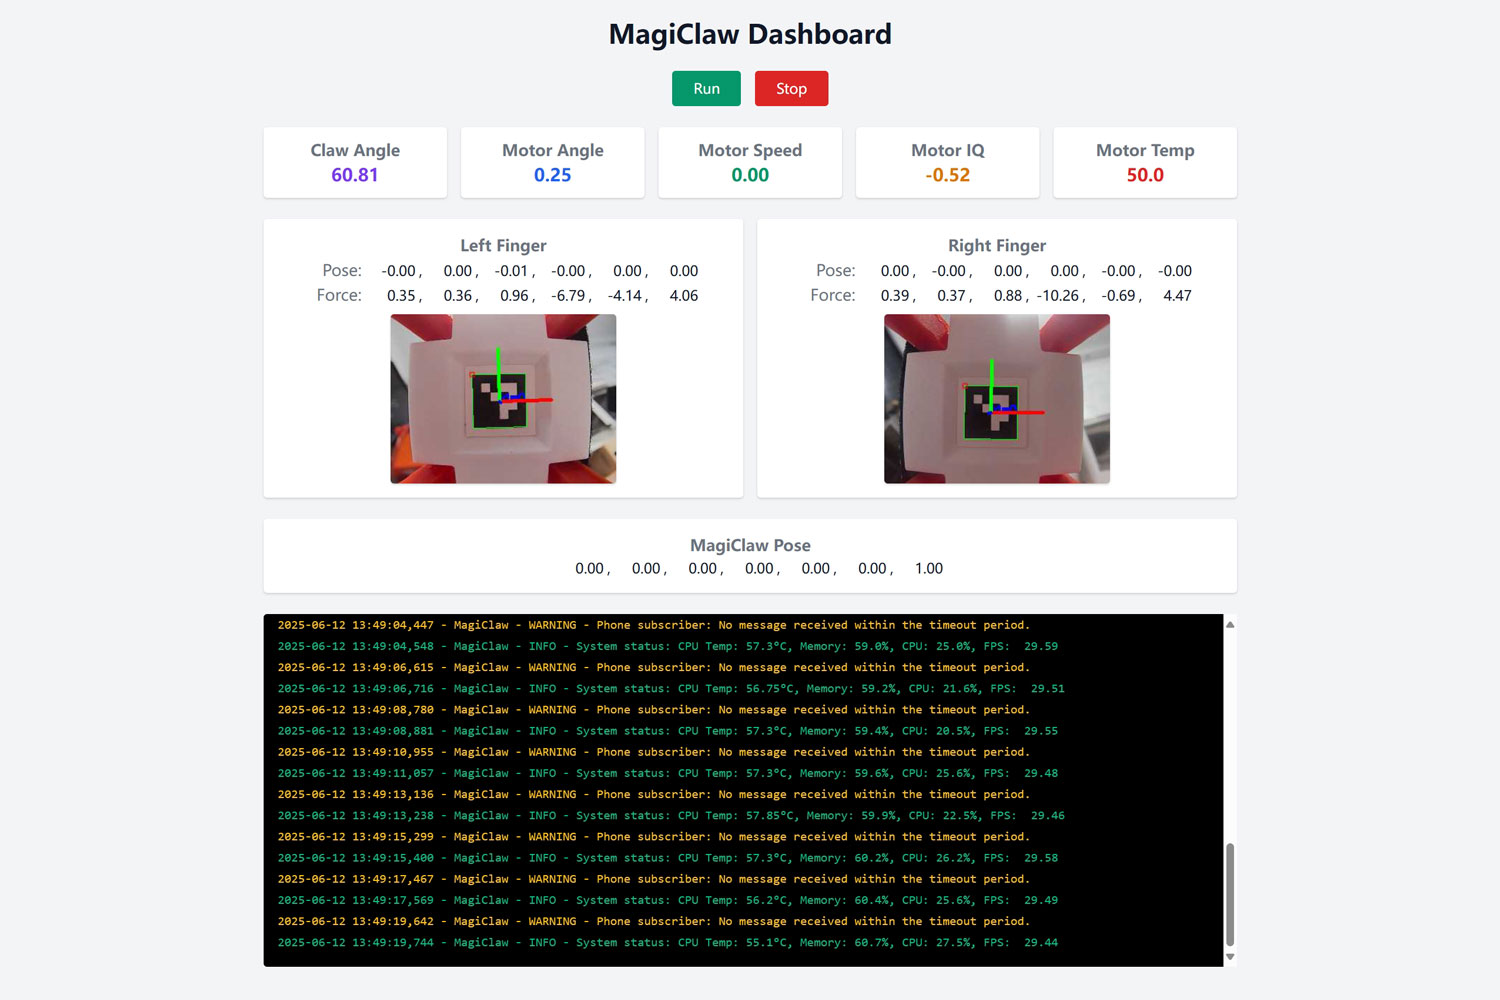
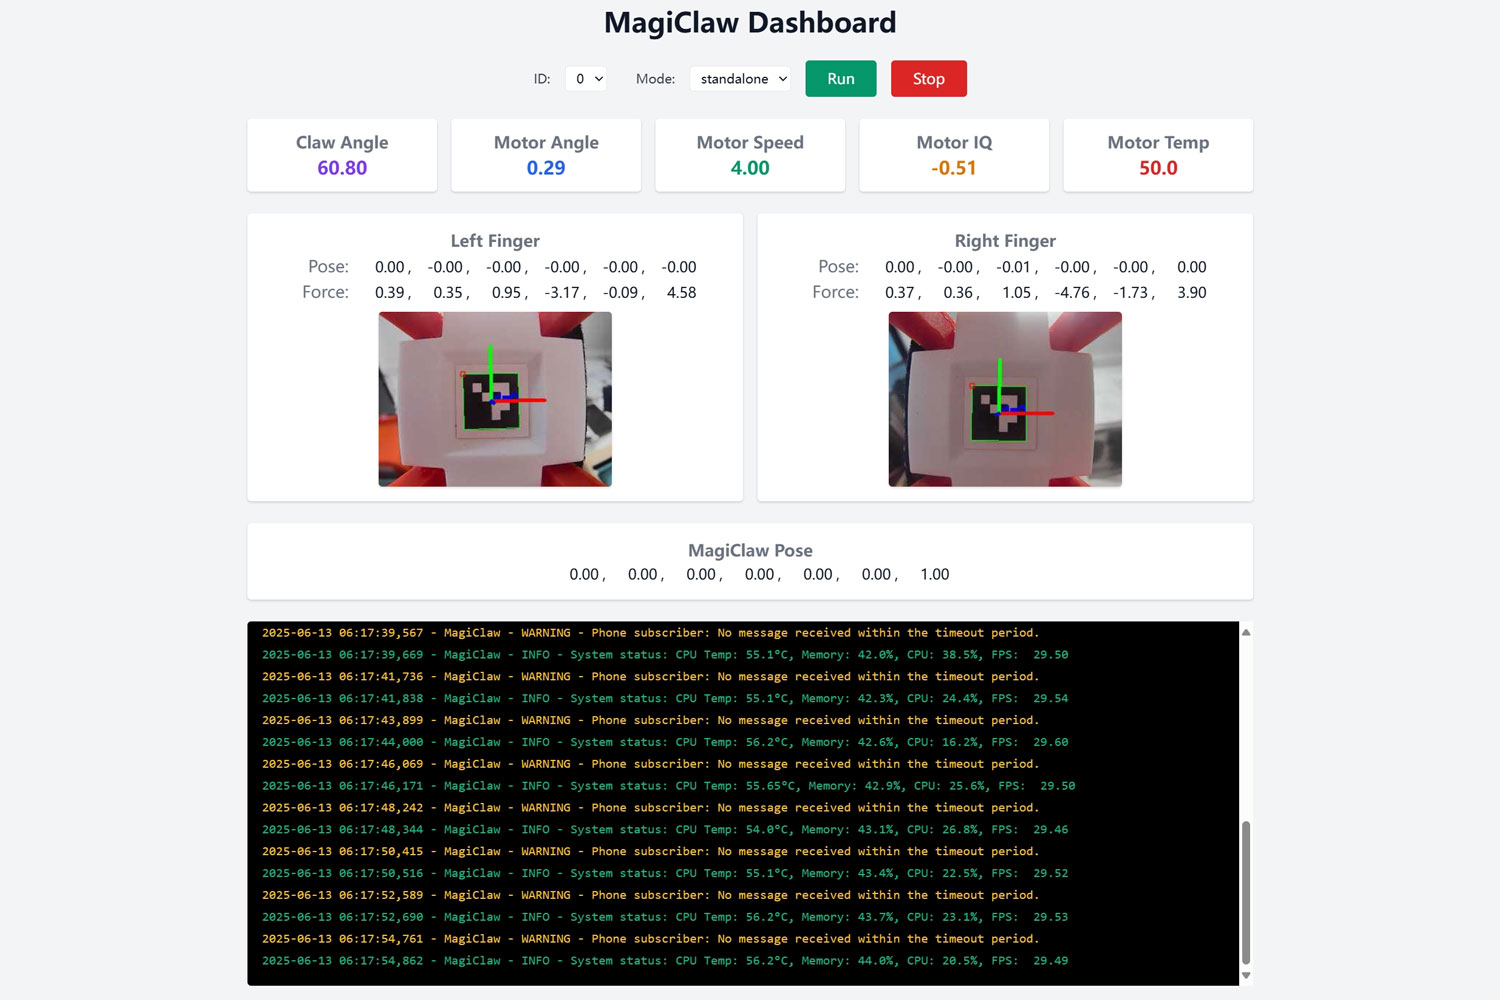
modified:   app.py 	modified:   docs/screenshot.jpg 	modified:   static/app.js 	modified:   static/index.html

diff --git a/static/app.js b/static/app.js
@@ -59,18 +59,34 @@ socket.on("status_update", (data) => {
 
 socket.on("log", appendLog);
 
+// 选择控件
+const clawIdSelect = document.getElementById("clawId");
+const clawModeSelect = document.getElementById("clawMode");
+
 // Control buttons for starting and stopping the MagicLaw process
 runBtn.addEventListener("click", async () => {
+  const clawId = parseInt(clawIdSelect.value);
+  const clawMode = clawModeSelect.value;
+
   const res = await fetch("/exec", {
     method: "POST",
     headers: {
       "Content-Type": "application/json",
       "Authorization": `Bearer ${AUTH_TOKEN}`
     },
-    body: JSON.stringify({ cmd: "run-magiclaw" }),
+    body: JSON.stringify({
+      cmd: "run-magiclaw",
+      id: clawId,
+      mode: clawMode
+    }),
   });
   const json = await res.json();
-  appendLog(`[client] Run: ${JSON.stringify(json)}`);
+  if (json.cmd) {
+    appendLog(`[client] Cmd: ${json.cmd}`);
+    appendLog(`[client] Run: ${JSON.stringify(json.status)}`);
+  } else {
+    appendLog(`[client] Run: ${JSON.stringify(json)}`);
+  }
 });
 
 stopBtn.addEventListener("click", async () => {

diff --git a/static/index.html b/static/index.html
@@ -30,6 +30,19 @@
 
     <!-- Control Buttons -->
     <div class="flex justify-center gap-4">
+      <div class="flex justify-center gap-4 items-center">
+      <label class="text-sm font-medium text-gray-700">ID:</label>
+      <select id="clawId" class="border rounded px-2 py-1 text-sm">
+        <option value="0">0</option>
+        <option value="1">1</option>
+      </select>
+
+      <label class="text-sm font-medium text-gray-700 ml-4">Mode:</label>
+      <select id="clawMode" class="border rounded px-2 py-1 text-sm">
+        <option value="standalone">standalone</option>
+        <option value="teleop">teleop</option>
+      </select>
+    </div>
       <button id="runBtn" class="px-6 py-2 bg-green-600 text-white rounded hover:bg-green-700 transition">Run</button>
       <button id="stopBtn" class="px-6 py-2 bg-red-600 text-white rounded hover:bg-red-700 transition">Stop</button>
     </div>

diff --git a/app.py b/app.py
@@ -149,9 +149,16 @@ def exec_cmd():
         if magiclaw_process and magiclaw_process.poll() is None:
             return jsonify({"status": "already running"})
 
+        # Get claw_id and mode from the request data
+        claw_id = str(data.get("id", 0))
+        mode = str(data.get("mode", "standalone"))
+        
+        magiclaw_cmd = [magiclaw_path, "--id", claw_id, "--mode", mode]
+        print("[run-magiclaw] cmd:", " ".join(magiclaw_cmd))
+
         env = os.environ.copy()
         magiclaw_process = subprocess.Popen(
-            [magiclaw_path],
+            magiclaw_cmd,
             stdout=subprocess.PIPE,
             stderr=subprocess.STDOUT,
             text=True,
@@ -164,7 +171,10 @@ def exec_cmd():
         zmq_thread = threading.Thread(target=zmq_subscriber, daemon=True)
         zmq_thread.start()
         threading.Thread(target=read_process_output, args=(magiclaw_process,), daemon=True).start()
-        return jsonify({"status": "started"})
+        return jsonify({
+            "status": "started",
+            "cmd": "".join(magiclaw_cmd),
+        })
 
     elif cmd == "stop-magiclaw":
         if magiclaw_process and magiclaw_process.poll() is None:
